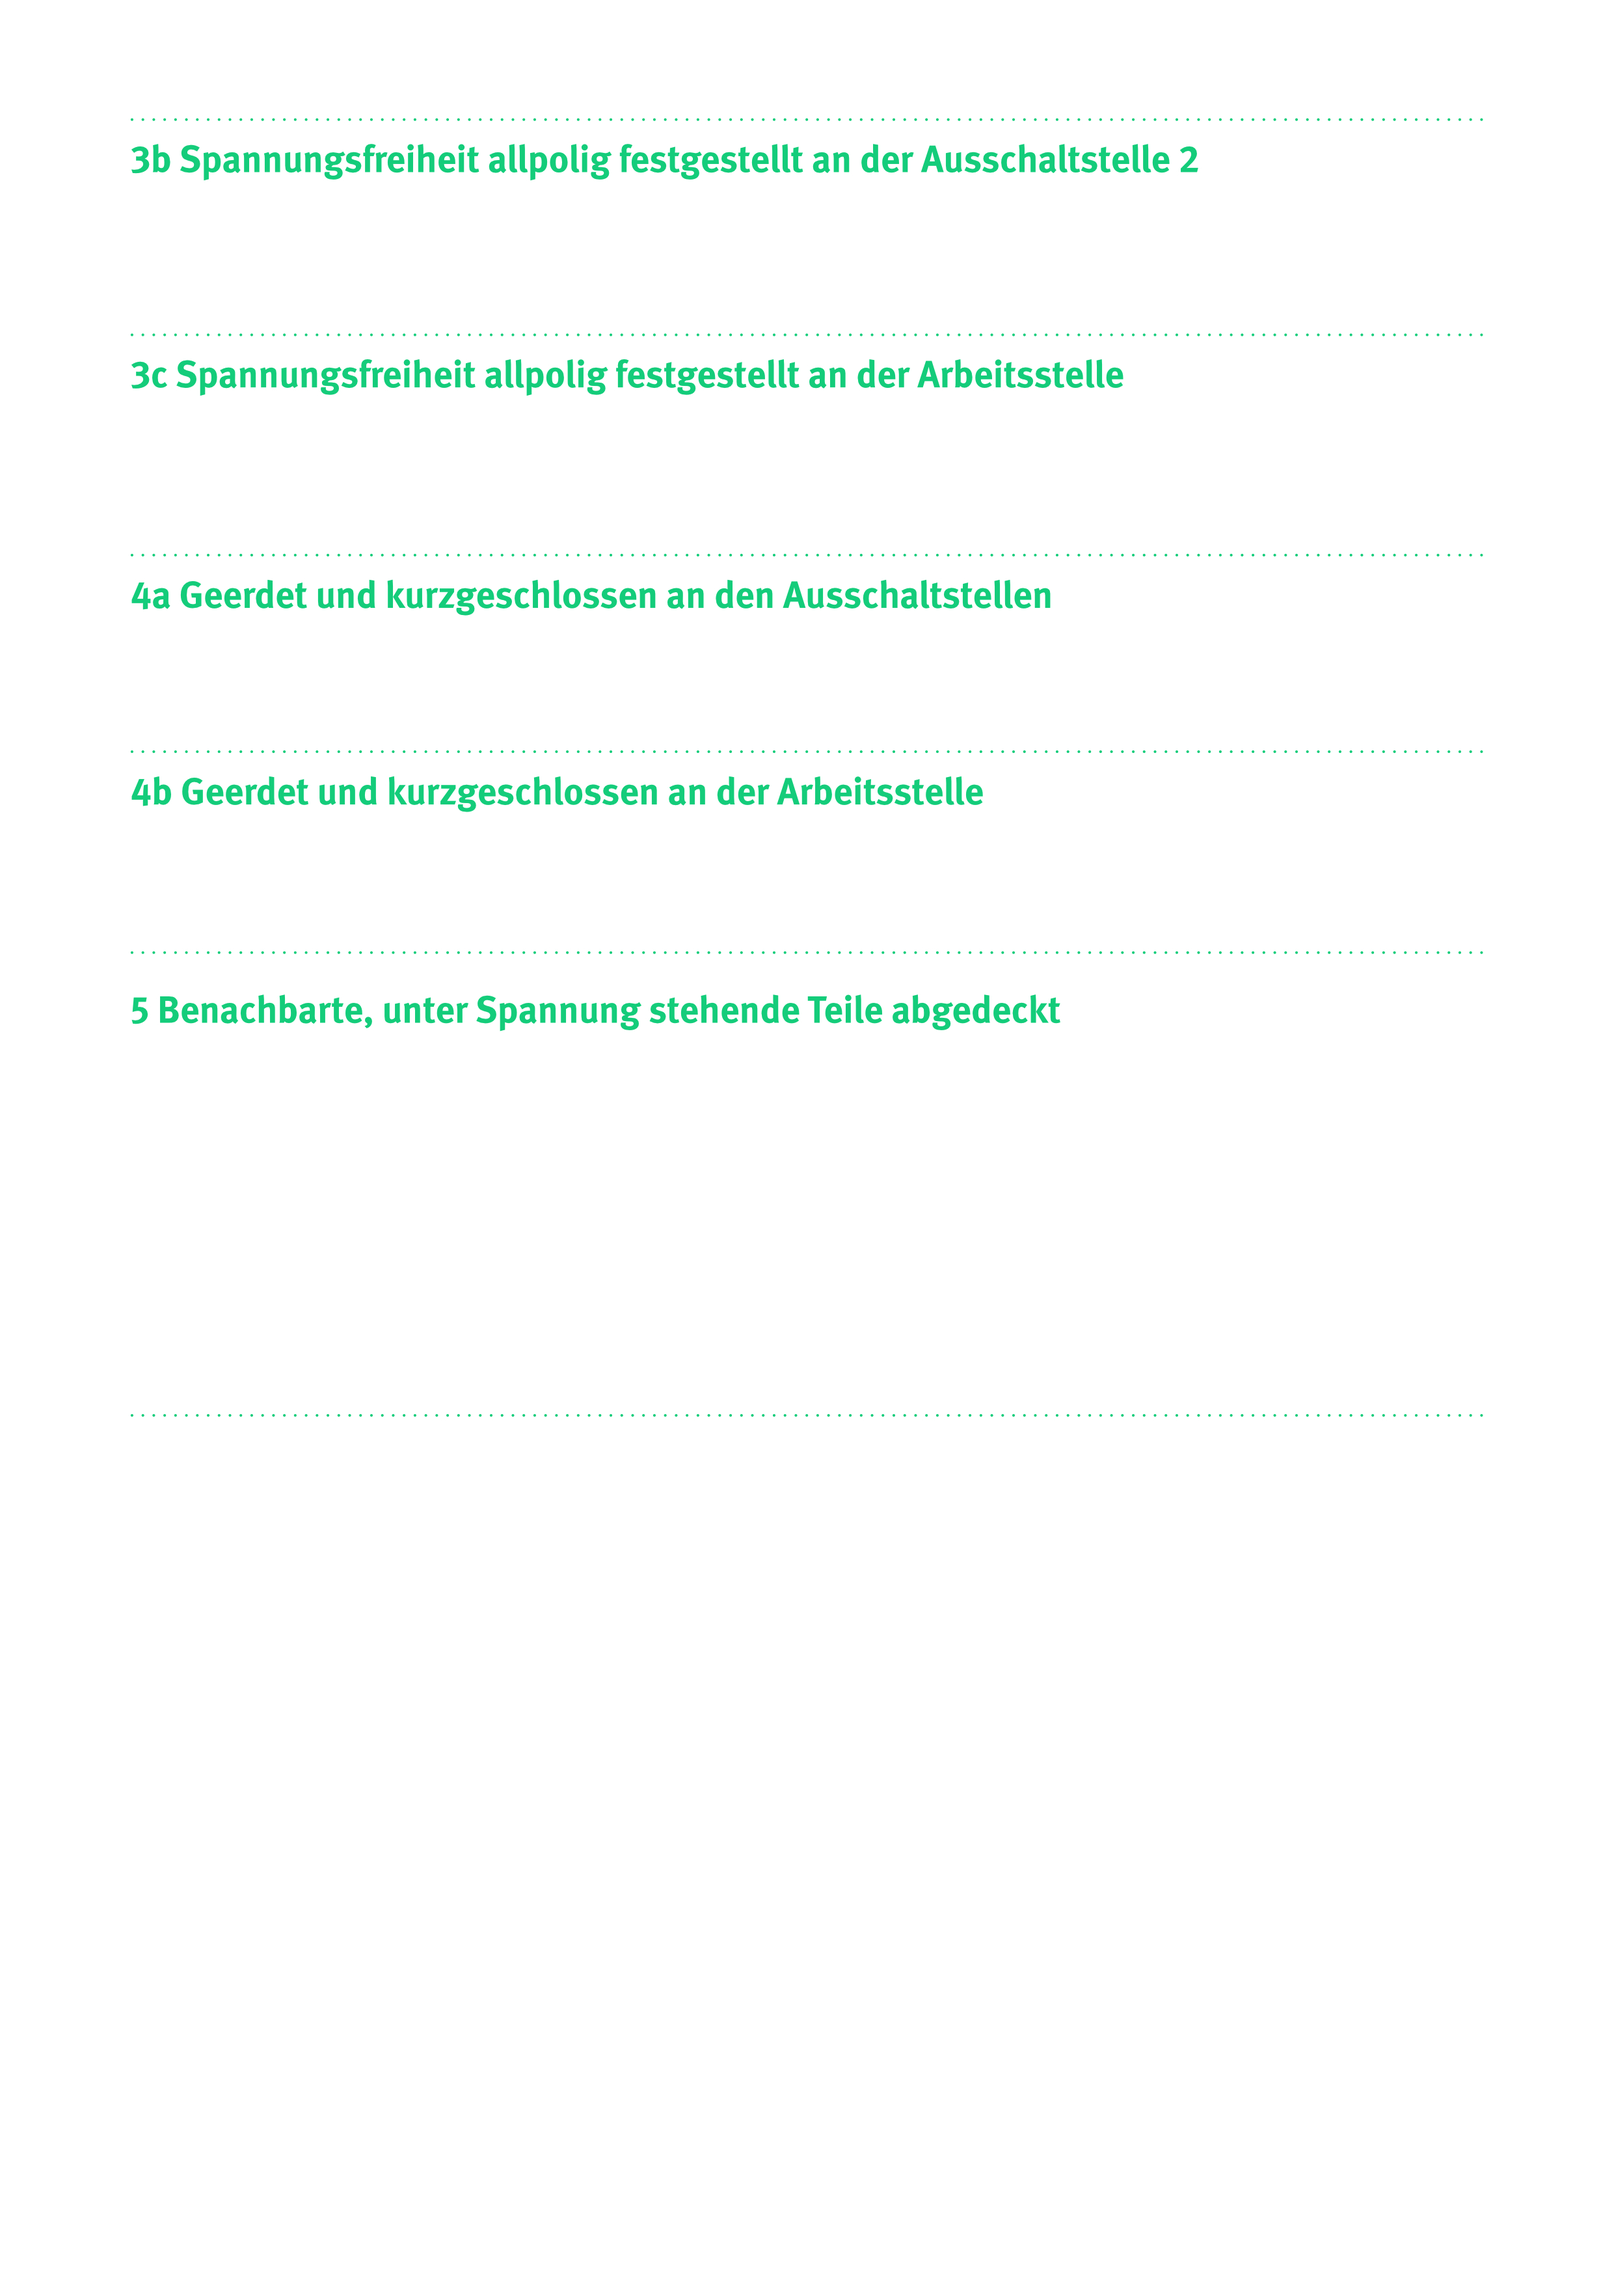
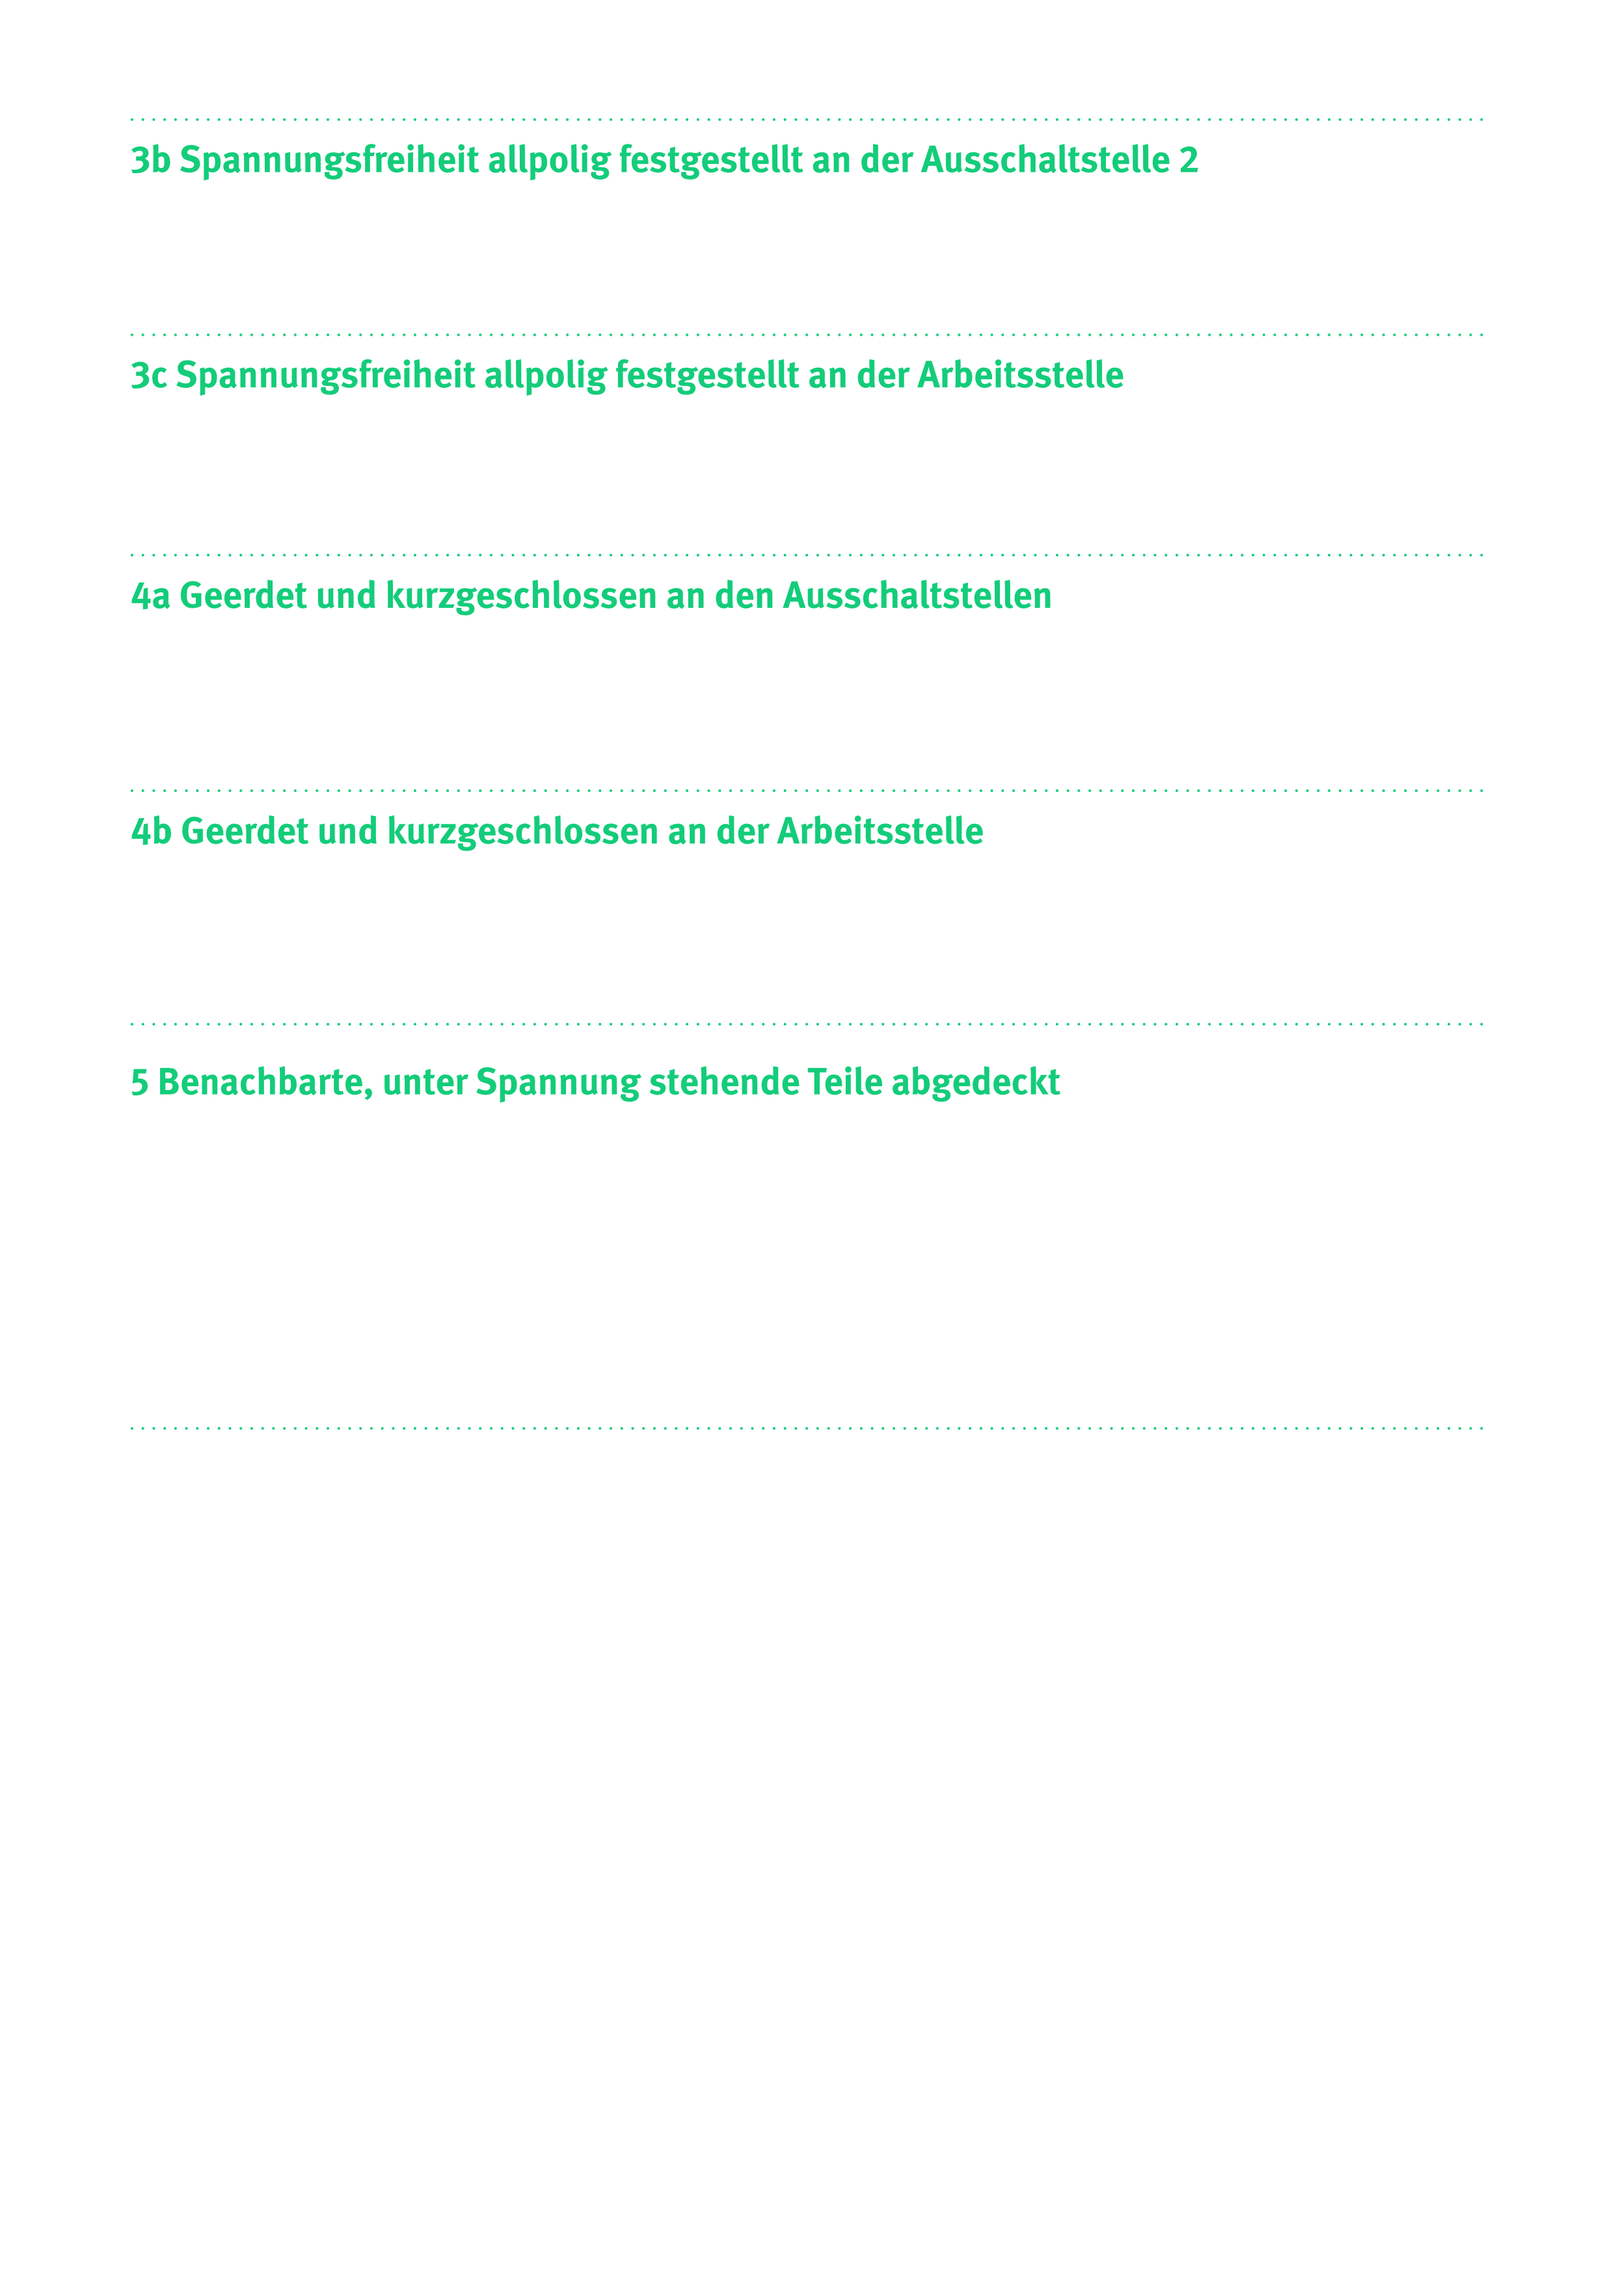
Modifying template8

Changed region(s): [[0.0931, 0.435, 0.6518, 0.4971], [0.0621, 0.3418, 0.6207, 0.3729]]

diff --git a/src/printfiverules/s139.py b/src/printfiverules/s139.py
@@ -367,7 +367,17 @@ def create_pdf(input):
     pdf.set_font('DGUVMeta-Normal', '', 10)
     pdf.set_text_color(0, 0, 0)
     pdf.set_xy(12.7, 84)
-    pdf.cell(0, 0, data.get("pruefungsart3c"))
+    pdf.cell(0, 0, data.get("stelle1"))
+
+    pdf.set_font('DGUVMeta-Bold', '', 10)
+    pdf.set_text_color(35, 31, 32)
+    pdf.set_xy(12.7, 90.5)
+    pdf.cell(0, 0, 'an Ausschaltstelle 2:')
+
+    pdf.set_font('DGUVMeta-Normal', '', 10)
+    pdf.set_text_color(0, 0, 0)
+    pdf.set_xy(12.7, 95.5)
+    pdf.cell(0, 0, data.get("stelle2"))
 
     pdf.output("s139.pdf", "F")
 
